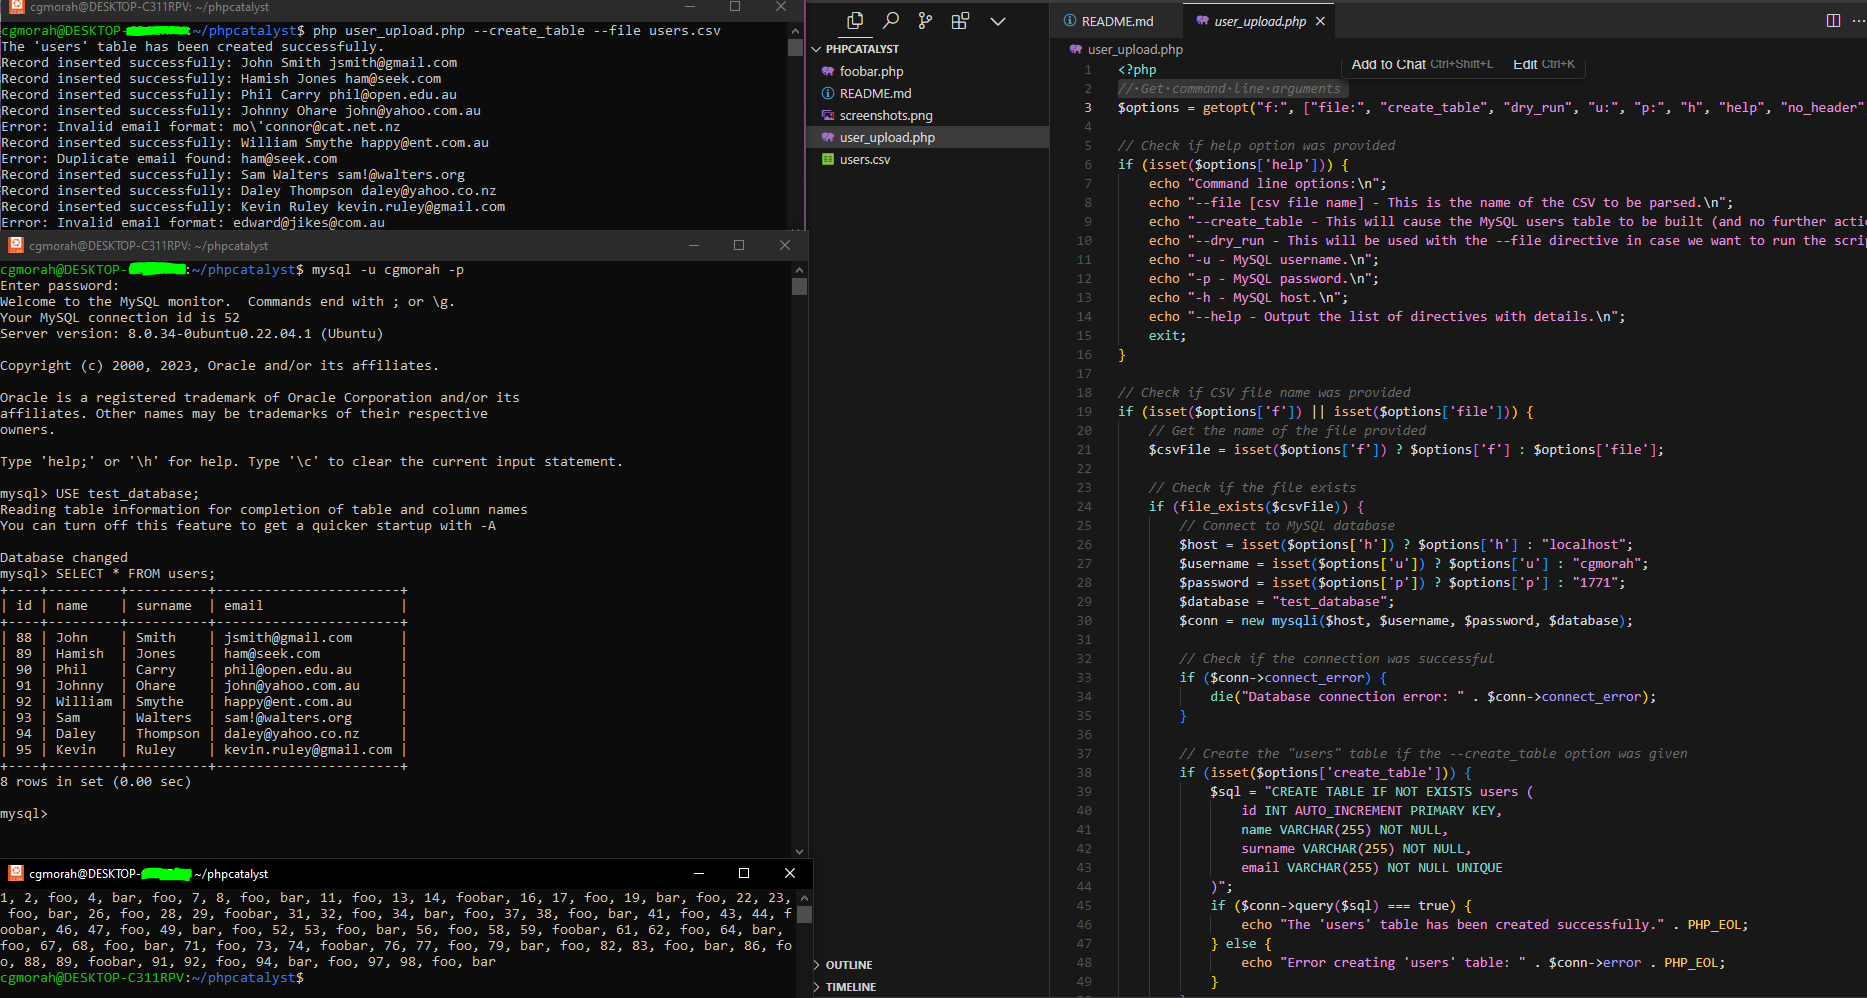
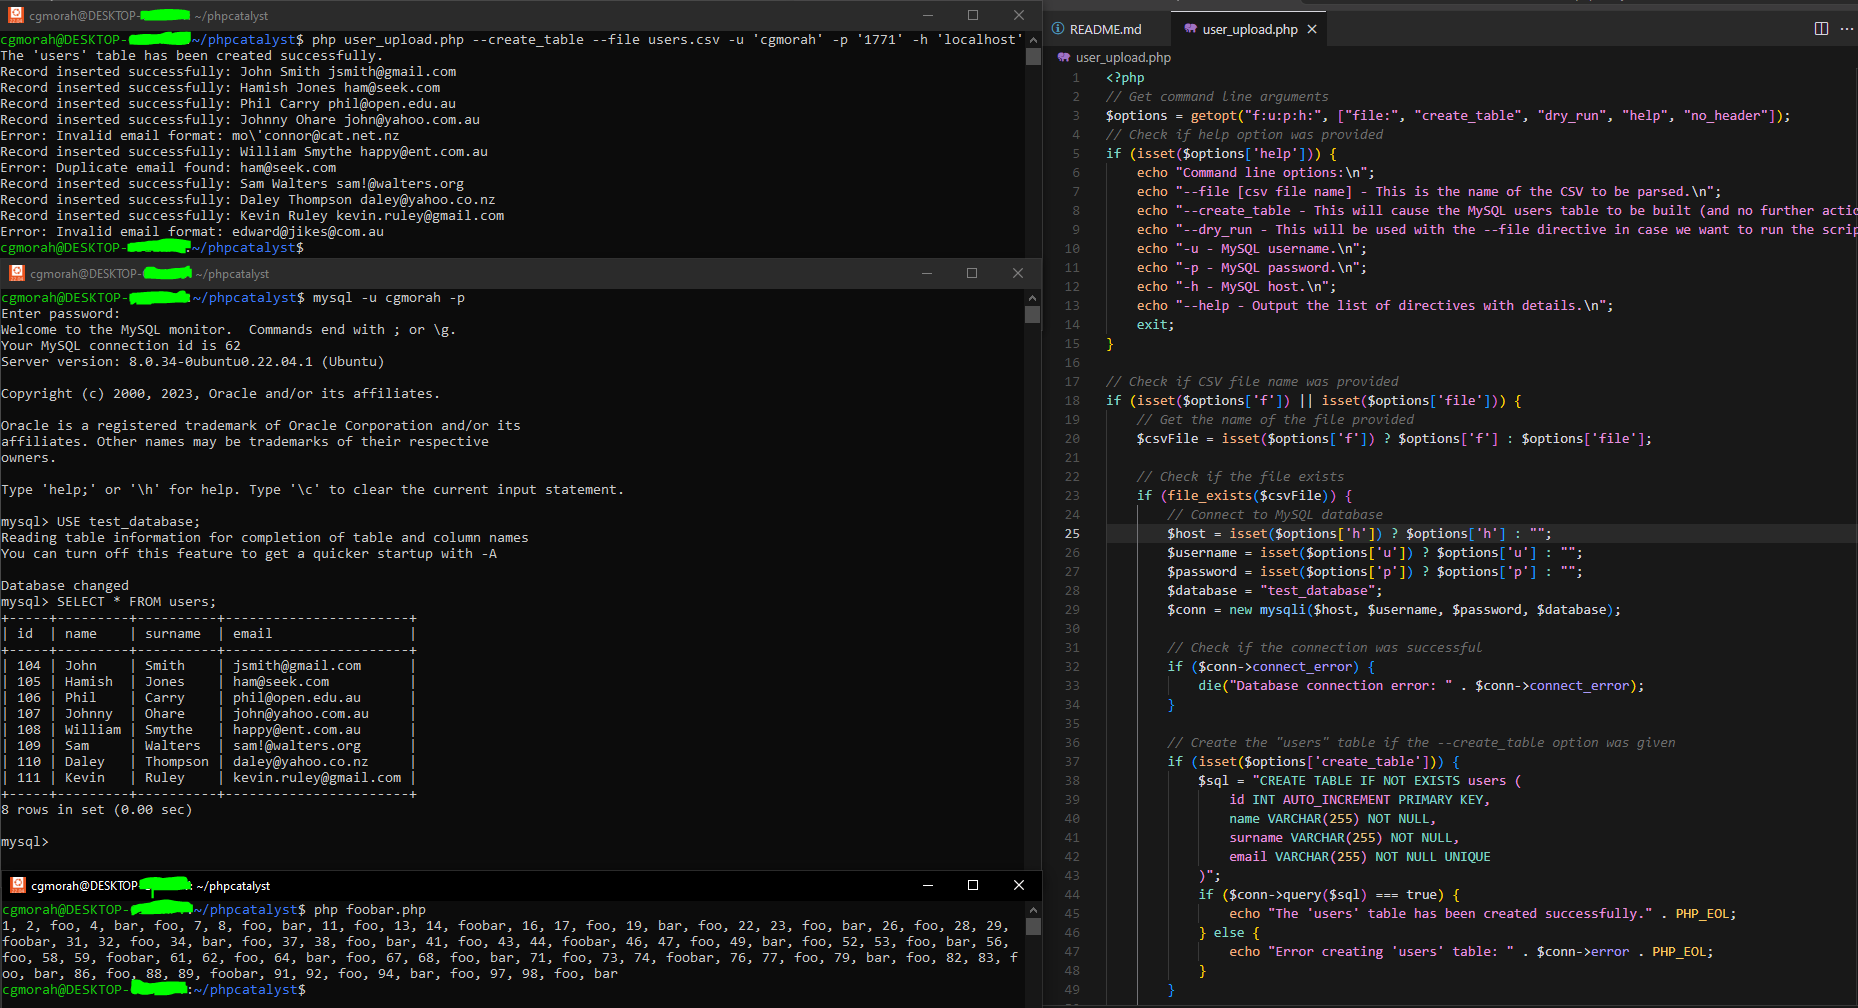
validating the -u, -p and -h options to the script. - user_upload.php

diff --git a/user_upload.php b/user_upload.php
@@ -1,7 +1,6 @@
 <?php
 // Get command line arguments
-$options = getopt("f:", ["file:", "create_table", "dry_run", "u:", "p:", "h", "help", "no_header"]);
-
+$options = getopt("f:u:p:h:", ["file:", "create_table", "dry_run", "help", "no_header"]);
 // Check if help option was provided
 if (isset($options['help'])) {
     echo "Command line options:\n";
@@ -23,9 +22,9 @@ if (isset($options['f']) || isset($options['file'])) {
     // Check if the file exists
     if (file_exists($csvFile)) {
         // Connect to MySQL database
-        $host = isset($options['h']) ? $options['h'] : "localhost";
-        $username = isset($options['u']) ? $options['u'] : "cgmorah";
-        $password = isset($options['p']) ? $options['p'] : "1771";
+        $host = isset($options['h']) ? $options['h'] : "";
+        $username = isset($options['u']) ? $options['u'] : "";
+        $password = isset($options['p']) ? $options['p'] : "";
         $database = "test_database";
         $conn = new mysqli($host, $username, $password, $database);
 
